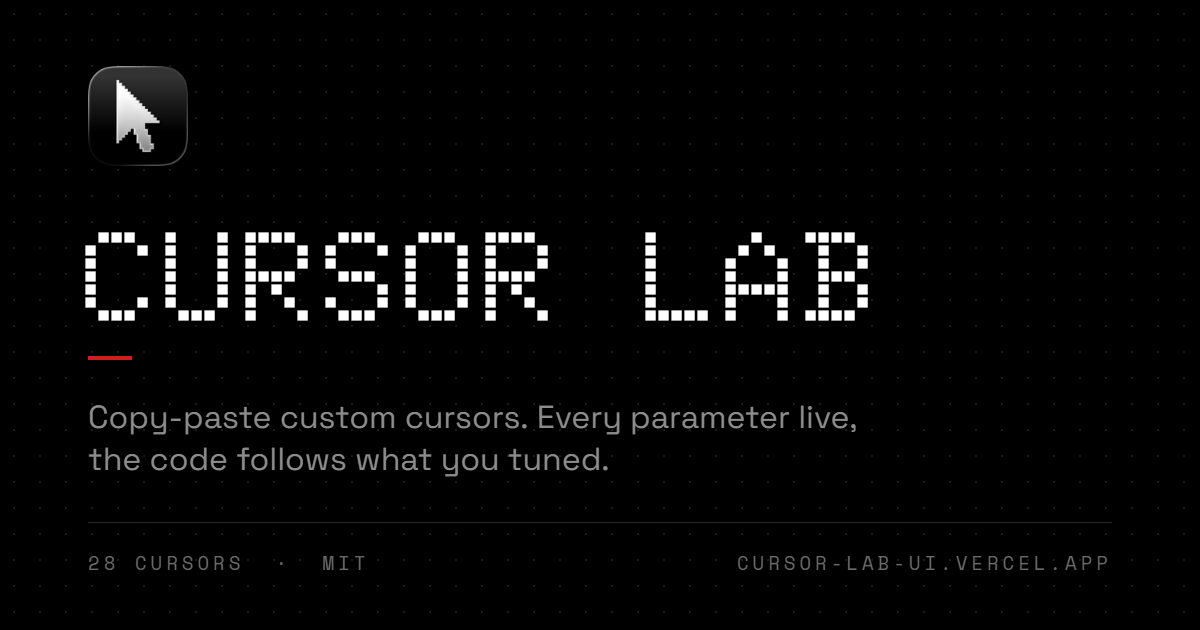
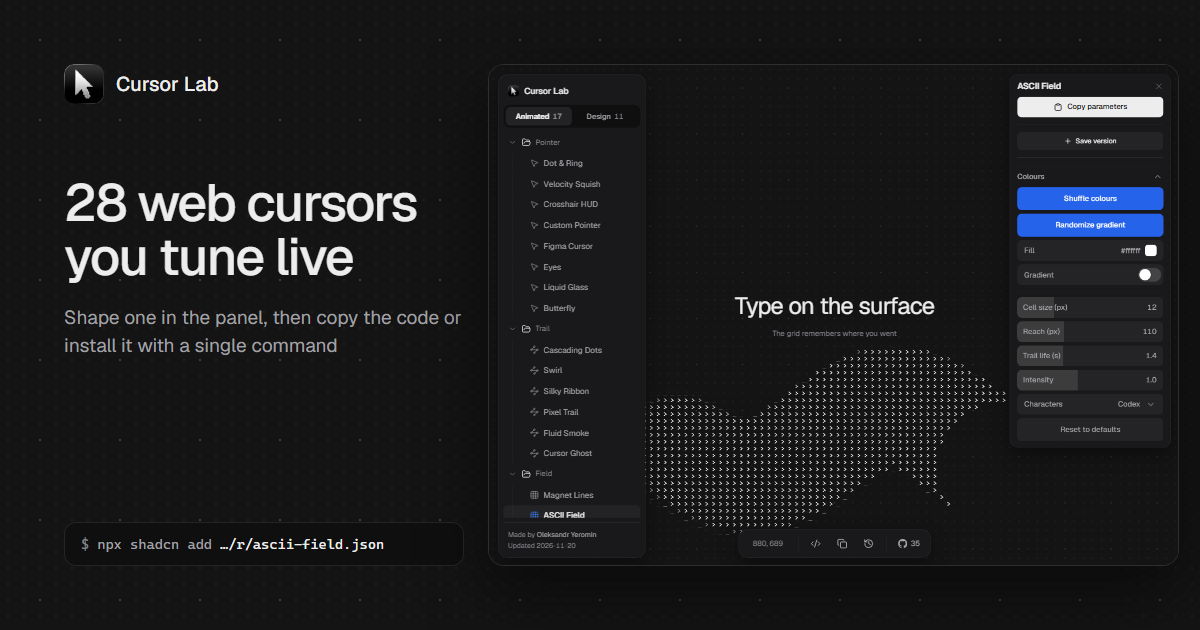
A new link-preview card from the live app
The card is now the real interface: ASCII Field mid-stroke on the stage,
the catalogue and DialKit around it, with the headline and the install
command beside it. scripts/cover.html builds it inside headless Chrome,
stepping the effect on a fake clock because virtual time barely runs
animation frames. og:image moves to ?v=3 so scrapers fetch the new card.

Changed region(s): [[0.0308, 0.0905, 0.9867, 0.9048], [0.0617, 0.8444, 0.3392, 0.9048], [0.0308, 0.0905, 0.185, 0.2413]]

diff --git a/scripts/cover.html b/scripts/cover.html
@@ -1,0 +1,95 @@
+<!doctype html>
+<html lang="en">
+<head>
+<meta charset="utf-8">
+<title>Cursor Lab cover</title>
+<!-- The link-preview card. With `npm run dev` running:
+     chrome --headless=new --hide-scrollbars --force-device-scale-factor=1 --window-size=1200,630
+            --virtual-time-budget=5000 --screenshot=public/assets/og.png http://localhost:5175/scripts/cover.html
+     then bump ?v= on og:image in index.html so scrapers fetch the new one. -->
+<script type="module">import '@fontsource-variable/geist'</script>
+<style>
+  * { box-sizing: border-box; margin: 0; padding: 0; }
+  html, body { width: 1200px; height: 630px; overflow: hidden; background: #141415; }
+  body {
+    position: relative;
+    font-family: 'Geist Variable', system-ui, sans-serif;
+    color: #ededed;
+    -webkit-font-smoothing: antialiased;
+    background-image:
+      radial-gradient(circle at center, rgb(237 237 237 / 0.13) 1.25px, transparent 1.6px),
+      radial-gradient(circle at center, rgb(237 237 237 / 0.055) 1px, transparent 1.4px);
+    background-size: 80px 80px, 16px 16px;
+  }
+  .copy { position: absolute; left: 64px; top: 64px; width: 400px; height: 502px; display: flex; flex-direction: column; }
+  .brand { display: flex; align-items: center; gap: 12px; font-size: 20px; font-weight: 500; }
+  .brand img { width: 40px; height: 40px; border-radius: 10px; }
+  h1 { margin-top: 72px; font-size: 52px; line-height: 1.04; font-weight: 500; letter-spacing: -0.03em; }
+  p { margin-top: 20px; font-size: 19px; line-height: 28px; color: #a1a1a6; }
+  .cmd {
+    margin-top: auto; height: 44px; padding: 0 16px;
+    display: flex; align-items: center; gap: 8px;
+    border: 1px solid rgb(237 237 237 / 0.1); border-radius: 12px; background: #0f0f10;
+    font: 14px/1 ui-monospace, 'Cascadia Mono', Consolas, monospace; color: #a1a1a6; white-space: nowrap;
+  }
+  .cmd b { font-weight: 400; color: #85858b; }
+  .cmd i { font-style: normal; color: #ededed; }
+  .window {
+    position: absolute; left: 488px; top: 64px;
+    width: 691px; height: 502px;
+    border: 1px solid rgb(237 237 237 / 0.12); border-radius: 16px; overflow: hidden;
+    box-shadow: 0 24px 64px rgb(0 0 0 / 0.5);
+    background: #141415;
+  }
+  .window iframe {
+    width: 1200px; height: 872px; border: 0;
+    transform: scale(0.576); transform-origin: 0 0;
+  }
+</style>
+</head>
+<body>
+  <div class="copy">
+    <div class="brand"><img src="/assets/logo.png" alt=""> Cursor Lab</div>
+    <h1>28 web cursors you tune live</h1>
+    <p>Shape one in the panel, then copy the code or install it with a single command</p>
+    <div class="cmd"><b>$</b> npx shadcn add <i>…/r/ascii-field.json</i></div>
+  </div>
+  <div class="window"><iframe id="app" src="/"></iframe></div>
+
+<script>
+/* Inside the app: open ASCII Field and keep the pointer moving across the
+   stage, so the shot catches a live trail rather than an empty mat. */
+const frame = document.getElementById('app')
+frame.addEventListener('load', () => {
+  const doc = frame.contentDocument, win = frame.contentWindow
+  const wait = (ms) => new Promise((r) => setTimeout(r, ms))
+  ;(async () => {
+    for (let i = 0; i < 40 && !doc.querySelector('[role=treeitem]'); i++) await wait(100)
+    const row = [...doc.querySelectorAll('[role=treeitem]')].find((b) => b.textContent.trim() === 'ASCII Field')
+    row && row.click()
+    await wait(600)
+    const stage = doc.querySelector('[data-stage]')
+    const r = stage.getBoundingClientRect()
+    const ev = (type, x, y) => stage.dispatchEvent(new win.PointerEvent(type, { clientX: x, clientY: y, bubbles: true, pointerId: 1, pointerType: 'mouse' }))
+    const cx = r.left + r.width * 0.5, cy = r.top + r.height * 0.75
+    /* headless Chrome under virtual time hardly runs animation frames, so the
+       effect is stepped frame by frame on a fake clock, then frozen */
+    const fx = stage.__fx
+    const real = win.performance.now.bind(win.performance)
+    let clock = real()
+    win.performance.now = () => clock
+    ev('pointerenter', cx - 280, cy)
+    const N = 110
+    for (let i = 0; i <= N; i++) {
+      const k = i / N
+      clock += 16
+      ev('pointermove', cx - 280 + k * 560, cy + Math.sin(k * Math.PI * 2.2) * 60)
+      fx.poke()
+    }
+    win.performance.now = real
+    win.requestAnimationFrame = () => 0
+  })()
+})
+</script>
+</body>
+</html>

diff --git a/index.html b/index.html
@@ -14,7 +14,7 @@
 <meta property="og:url" content="https://cursor-lab-ui.vercel.app/">
 <meta property="og:title" content="Cursor Lab">
 <meta property="og:description" content="28 custom cursors you can tune live, then copy as JS, React, or CSS with your own values baked in.">
-<meta property="og:image" content="https://cursor-lab-ui.vercel.app/assets/og.png?v=2">
+<meta property="og:image" content="https://cursor-lab-ui.vercel.app/assets/og.png?v=3">
 <meta property="og:image:type" content="image/png">
 <meta property="og:image:width" content="1200">
 <meta property="og:image:height" content="630">
@@ -23,7 +23,7 @@
 <meta name="twitter:card" content="summary_large_image">
 <meta name="twitter:title" content="Cursor Lab">
 <meta name="twitter:description" content="28 custom cursors you can tune live, then copy as JS, React, or CSS with your own values baked in.">
-<meta name="twitter:image" content="https://cursor-lab-ui.vercel.app/assets/og.png?v=2">
+<meta name="twitter:image" content="https://cursor-lab-ui.vercel.app/assets/og.png?v=3">
 
 <link rel="icon" href="/favicon.ico" sizes="32x32">
 <link rel="icon" type="image/png" sizes="16x16" href="/assets/icons/icon-16.png">
